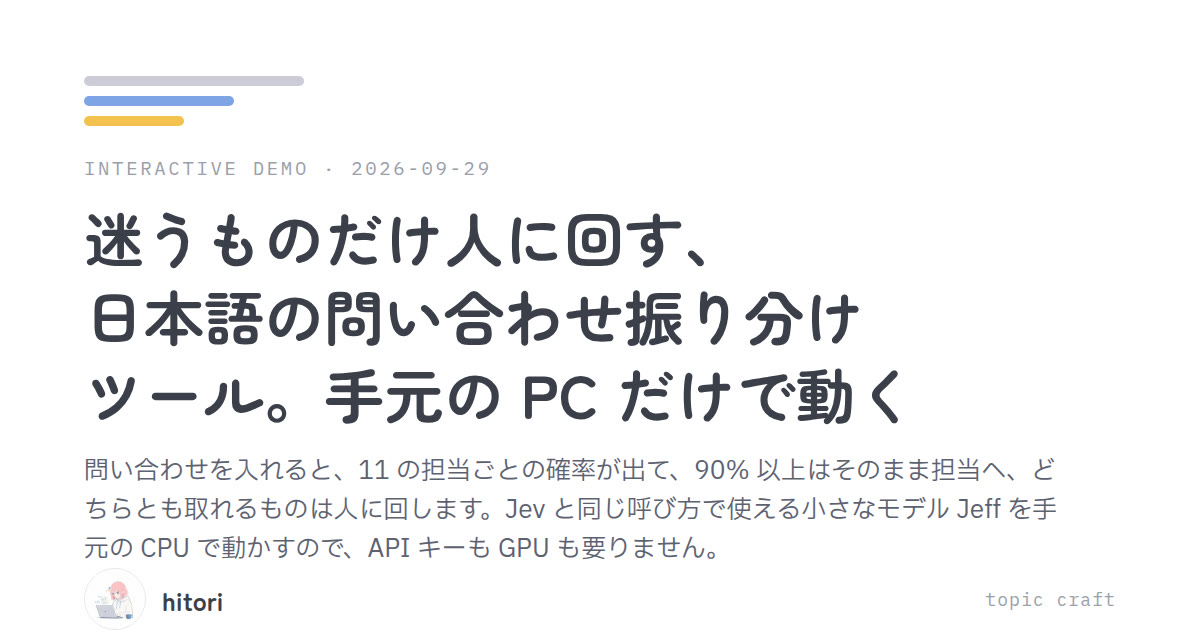
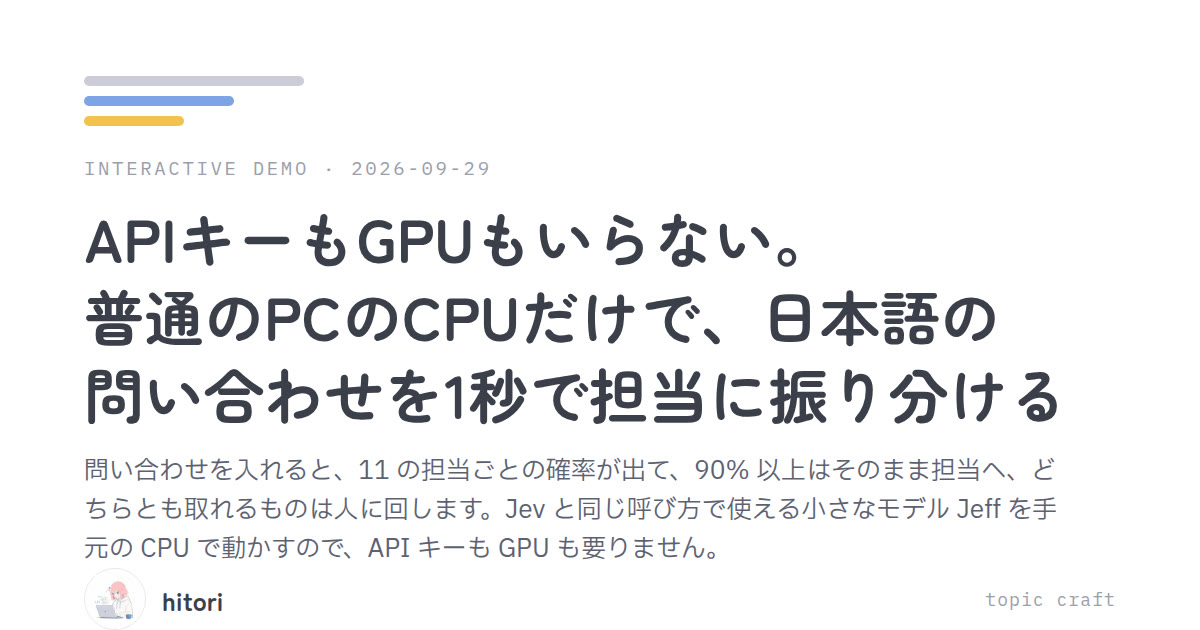
ワークを更新: APIキーもGPUもいらない。普通のPCのCPUだけで、日本語の問い合わせを1秒で担当に振り分ける

Changed region(s): [[0.0617, 0.4524, 0.8942, 0.6937], [0.0617, 0.3317, 0.6475, 0.4222], [0.6475, 0.3921, 0.6783, 0.4222]]

diff --git a/works/2026-09-29-inquiry-router/index.html b/works/2026-09-29-inquiry-router/index.html
@@ -3,9 +3,9 @@
 <head>
 <meta charset="utf-8">
 <meta name="viewport" content="width=device-width, initial-scale=1, viewport-fit=cover">
-<title>迷うものだけ人に回す、日本語の問い合わせ振り分けツール。手元の PC だけで動く</title>
+<title>APIキーもGPUもいらない。普通のPCのCPUだけで、日本語の問い合わせを1秒で担当に振り分ける</title>
 <meta name="description" content="お客様の問い合わせを入れると、11 の担当のどれが受けるかが確率つきで出て、90% 以上ならそのまま担当へ、どちらとも取れるものは人に回します。API キーも GPU も要らず、手元の CPU で 1 件約 0.9 秒。">
-<meta property="og:title" content="迷うものだけ人に回す、日本語の問い合わせ振り分けツール。手元の PC だけで動く">
+<meta property="og:title" content="APIキーもGPUもいらない。普通のPCのCPUだけで、日本語の問い合わせを1秒で担当に振り分ける">
 <meta property="og:description" content="問い合わせを入れると 11 の担当ごとの確率が出て、90% 以上は自動で担当へ、迷うものだけ人へ。Jev と同じ呼び方で使える小さな判定モデル Jeff を、手元の CPU で動かします。">
 <meta property="og:image" content="https://hitoridev-studio.github.io/topic-craft/works/2026-09-29-inquiry-router/card.jpg">
 <meta name="twitter:card" content="summary_large_image">
@@ -35,7 +35,7 @@
   <header class="top"><a class="brand" href="../../index.html"><img class="avatar" src="../../assets/avatar.png" alt="">hitori</a><span class="tag">topic craft</span></header>
   <p class="meta" style="margin-top:40px"><span>2026-09-29</span><span class="kind">もの</span></p>
 
-  <h1 style="margin-top:8px">迷うものだけ人に回す、日本語の問い合わせ振り分けツール。手元の PC だけで動く</h1>
+  <h1 style="margin-top:8px">APIキーもGPUもいらない。普通のPCのCPUだけで、日本語の問い合わせを1秒で担当に振り分ける</h1>
   <p class="lead">お客様の問い合わせを、返金・注文・アカウントなど 11 の担当に振り分ける道具を作りました。問い合わせを入れると、担当ごとの確率が出ます。いちばん高い確率が 90% 以上ならそのまま担当へ回し、どちらとも取れるものは「要確認」として人に回します。</p>
   <p class="lead">判定するのは、Jev と同じ呼び方で使える小さなモデル Jeff です。API キーも GPU も要らず、手元の 4 コアの CPU で 1 件約 0.9 秒でした。問い合わせを外に出せない窓口や、振り分けを毎回人が読んで決めているチームで使えます。</p>
 

diff --git a/index.html b/index.html
@@ -22,7 +22,7 @@
 <main class="wrap">
 
 <ul class="list" style="margin-top:44px">
-  <li><a href="works/2026-09-29-inquiry-router/index.html"><img class="thumb" src="works/2026-09-29-inquiry-router/card.jpg" alt=""><div class="d"><span>2026-09-29</span><span class="kind">デモ</span></div><p class="t">迷うものだけ人に回す、日本語の問い合わせ振り分けツール。手元の PC だけで動く</p><p class="s">問い合わせを入れると、11 の担当ごとの確率が出て、90% 以上はそのまま担当へ、どちらとも取れるものは人に回します。Jev と同じ呼び方で使える小さなモデル Jeff を手元の CPU で動かすので、API キーも GPU も要りません。</p></a></li>
+  <li><a href="works/2026-09-29-inquiry-router/index.html"><img class="thumb" src="works/2026-09-29-inquiry-router/card.jpg" alt=""><div class="d"><span>2026-09-29</span><span class="kind">デモ</span></div><p class="t">APIキーもGPUもいらない。普通のPCのCPUだけで、日本語の問い合わせを<span style="white-space:nowrap">1秒</span>で担当に振り分ける</p><p class="s">問い合わせを入れると、11 の担当ごとの確率が出て、90% 以上はそのまま担当へ、どちらとも取れるものは人に回します。Jev と同じ呼び方で使える小さなモデル Jeff を手元の CPU で動かすので、API キーも GPU も要りません。</p></a></li>
   <li><a href="works/2026-09-25-llm-percent-fixer/index.html"><img class="thumb" src="works/2026-09-25-llm-percent-fixer/card.jpg" alt=""><div class="d"><span>2026-09-25</span><span class="kind">デモ</span></div><p class="t">LLM や Jev が出す<span style="white-space:nowrap">「◯%確か」を</span>、本当の%に直すツール</p><p class="s">答え合わせ済みの判定の記録を貼ると、確率を本当に当たる割合に直す式が出ます。見本では、80% 以上と出た 171 件の当たりは 73% で、直した確率なら 83% でした。</p></a></li>
 </ul>
 

diff --git a/works/2026-09-29-inquiry-router/web/board.css b/works/2026-09-29-inquiry-router/web/board.css
@@ -1,14 +1,14 @@
 :root { --bg: #eef0f6; --card: #fff; --line: #e4e6ee; --ink: #2f3340; --ink-2: #5c6170; --ink-3: #9a9ea9; --blue: #4a7fd4;
   --gold: #f2c14e; --gold-soft: #fdf3d8; --gold-ink: #8a6a12;
-  --sans: "IBM Plex Sans JP", -apple-system, "Hiragino Sans", "Noto Sans JP", sans-serif; --mono: "IBM Plex Mono", ui-monospace, Menlo, monospace;
-  --display: "Zen Maru Gothic", "IBM Plex Sans JP", sans-serif; }
+  --sans: -apple-system, BlinkMacSystemFont, "Inter", "Hiragino Sans", "Noto Sans JP", sans-serif; --mono: var(--sans); --display: var(--sans); }
 * { box-sizing: border-box; }
-body { margin: 0; background: var(--bg); color: var(--ink); font-family: var(--sans); -webkit-font-smoothing: antialiased; }
+body { margin: 0; background: var(--bg); color: var(--ink); font-family: var(--sans); -webkit-font-smoothing: antialiased; letter-spacing: -.01em; font-feature-settings: "palt"; }
+.mono, .tile .n, .verdict .p, .row, .foot { font-variant-numeric: tabular-nums; }
 .app { width: min(100%, 30rem); margin: 0 auto; padding: 0 14px 16px; }
 .mono { font-family: var(--mono); }
 
 .bar { display: flex; align-items: center; justify-content: space-between; padding: 14px 2px 10px; }
-.bar h1 { font-family: var(--display); font-size: 20px; margin: 0; }
+.bar h1 { font-family: var(--display); font-size: 20px; font-weight: 700; letter-spacing: -.02em; margin: 0; }
 .live { display: inline-flex; align-items: center; gap: 6px; font-size: 12px; font-weight: 600; color: var(--ink-2); background: #fff; border: 1px solid var(--line); border-radius: 999px; padding: 5px 10px; }
 .live i { width: 7px; height: 7px; border-radius: 50%; background: #34b37a; box-shadow: 0 0 0 3px #34b37a33; }
 .live.busy i { background: var(--blue); box-shadow: 0 0 0 3px #4a7fd433; animation: blink .6s infinite alternate; }

diff --git a/works/2026-09-29-inquiry-router/web/board.html b/works/2026-09-29-inquiry-router/web/board.html
@@ -4,7 +4,7 @@
 <meta charset="utf-8">
 <meta name="viewport" content="width=device-width, initial-scale=1">
 <title>問い合わせの振り分け</title>
-<link rel="stylesheet" href="https://fonts.googleapis.com/css2?family=IBM+Plex+Sans+JP:wght@400;500;600;700&family=IBM+Plex+Mono:wght@400;500;600&family=Zen+Maru+Gothic:wght@500;700&display=swap">
+<link rel="stylesheet" href="https://fonts.googleapis.com/css2?family=Inter:wght@400;500;600;700&family=Noto+Sans+JP:wght@400;500;700&display=swap">
 <link rel="stylesheet" href="/board.css">
 </head>
 <body>

diff --git a/works/2026-09-29-inquiry-router/README.md b/works/2026-09-29-inquiry-router/README.md
@@ -1,4 +1,4 @@
-# 迷うものだけ人に回す、日本語の問い合わせ振り分けツール。手元の PC だけで動く
+# APIキーもGPUもいらない。普通のPCのCPUだけで、日本語の問い合わせを1秒で担当に振り分ける
 
 お客様の問い合わせを入れると、11 の担当（アカウント・返金・注文・配送など）のどれが受けるかを、担当ごとの確率つきで出します。いちばん高い確率が 90% 以上ならそのまま担当へ回し、どちらとも取れるものは「要確認」として人に回します。
 
